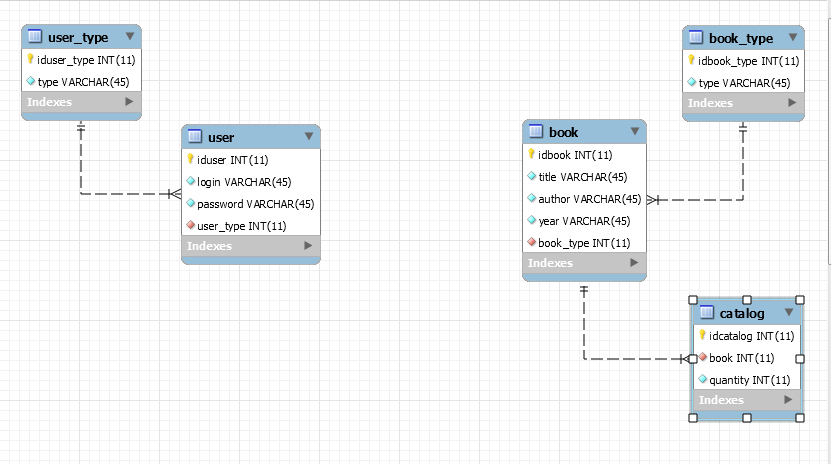
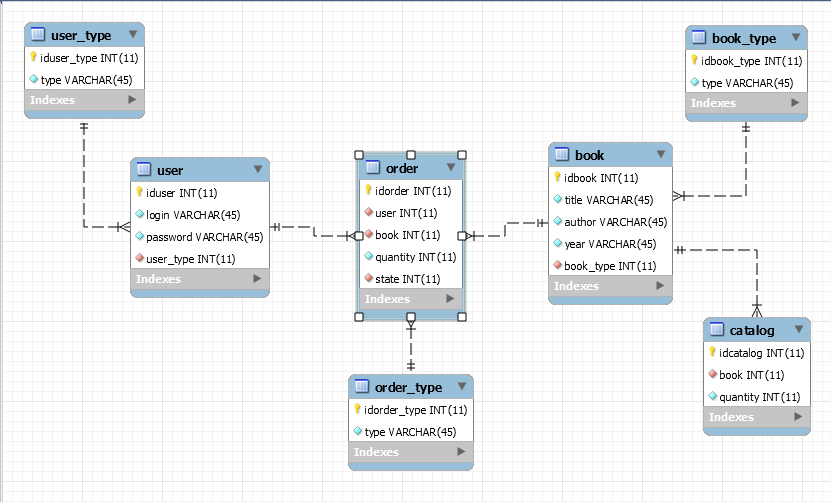
order books added

diff --git a/web/js/validation.js b/web/js/validation.js
@@ -28,3 +28,4 @@ function validateRegisterForm() {
         return false;
     }
 }
+

diff --git a/src/by/bsu/guglya/library/database/dao/OrderDAO.java b/src/by/bsu/guglya/library/database/dao/OrderDAO.java
@@ -1,0 +1,54 @@
+package by.bsu.guglya.library.database.dao;
+
+import by.bsu.guglya.library.beans.Order;
+import org.apache.log4j.Logger;
+
+import java.sql.PreparedStatement;
+import java.sql.ResultSet;
+import java.sql.SQLException;
+
+public class OrderDAO extends AbstractDAO{
+    private static final Logger LOG = Logger.getLogger(OrderDAO.class);
+    public static final String GET_IDORDER_TYPE = "select idorder_type from library.order_type where type=?;";
+    public static final String INSERT_ORDER = "insert into library.order (user, book, quantity, state) values (?,?,?,?);";
+
+    public boolean addOrder(String idBook, int idUser){
+        boolean result = false;
+        PreparedStatement idTypePS = null;
+        PreparedStatement insertOrderPS = null;
+        try{
+            conn.setAutoCommit(false);
+            idTypePS = conn.prepareStatement(GET_IDORDER_TYPE);
+            idTypePS.setString(1, Order.TypeOfOrder.IN_PROCESSING.toString());
+            insertOrderPS = conn.prepareStatement(INSERT_ORDER);
+            try{
+                ResultSet resultSet = idTypePS.executeQuery();
+                resultSet.next();
+                int idOrderTypeProc = resultSet.getInt("idorder_type");
+                insertOrderPS.setInt(1, idUser);
+                insertOrderPS.setString(2, idBook);
+                int qty = 1;
+                insertOrderPS.setInt(3, qty);
+                insertOrderPS.setInt(4, idOrderTypeProc);
+                insertOrderPS.executeUpdate();
+                conn.commit();
+                result = true;
+            } catch (SQLException ex) {
+                conn.rollback();
+                LOG.error(ex.getMessage());
+            } finally {
+                if (insertOrderPS != null) {
+                    insertOrderPS.close();
+                }
+                if (idTypePS != null) {
+                    idTypePS.close();
+                }
+            }
+        } catch (SQLException ex) {
+            LOG.error(ex.getMessage());
+        } finally {
+            closeConnection();
+        }
+        return result;
+    }
+}

diff --git a/src/by/bsu/guglya/library/commands/OrderBooksCommand.java b/src/by/bsu/guglya/library/commands/OrderBooksCommand.java
@@ -1,0 +1,35 @@
+package by.bsu.guglya.library.commands;
+
+import by.bsu.guglya.library.beans.User;
+import by.bsu.guglya.library.logic.OrderLogic;
+import by.bsu.guglya.library.managers.ConfigurationManager;
+import by.bsu.guglya.library.managers.MessageManager;
+
+import javax.servlet.http.HttpServletRequest;
+import javax.servlet.http.HttpSession;
+
+public class OrderBooksCommand implements Command {
+    private final static String USER_ATTR = "user";
+    private final static String LOCALE_PARAM = "locale";
+    private final static String SUCCESS_ORDER_MESSAGE_ATTR = "successOrderMessage";
+    @Override
+    public String execute(HttpServletRequest request) {
+        if (request.getParameter("selectedItems") != null) {
+            String selectedItems = request.getParameter("selectedItems");
+            String[] selectedItemsArray = selectedItems.split(",");
+            HttpSession session = request.getSession(true);
+            String locale = (String)session.getAttribute(LOCALE_PARAM);
+            MessageManager messageManager = new MessageManager(locale);
+            User user = (User)session.getAttribute(USER_ATTR);
+            int idUser = user.getIdUser();
+            for(String idBook : selectedItemsArray){
+                if(OrderLogic.addOrder(idBook, idUser)){
+                    String message = messageManager.getProperty(MessageManager.ORDER_SUCCESS_MESSAGE);
+                    request.setAttribute(SUCCESS_ORDER_MESSAGE_ATTR, message);
+                }
+            }
+        }
+        String page = new CatalogCommand().execute(request);
+        return page;
+    }
+}

diff --git a/src/by/bsu/guglya/library/beans/Order.java b/src/by/bsu/guglya/library/beans/Order.java
@@ -1,0 +1,52 @@
+package by.bsu.guglya.library.beans;
+
+public class Order {
+
+    public enum TypeOfOrder{
+        IN_PROCESSING, APPROVED
+    }
+
+    private int idUser;
+    private int idBook;
+    private int quantity;
+    private TypeOfOrder type;
+
+    public Order(int idUser, int idBook, int quantity, TypeOfOrder type) {
+        this.idUser = idUser;
+        this.idBook = idBook;
+        this.quantity = quantity;
+        this.type = type;
+    }
+
+    public int getIdUser() {
+        return idUser;
+    }
+
+    public void setIdUser(int idUser) {
+        this.idUser = idUser;
+    }
+
+    public int getIdBook() {
+        return idBook;
+    }
+
+    public void setIdBook(int idBook) {
+        this.idBook = idBook;
+    }
+
+    public int getQuantity() {
+        return quantity;
+    }
+
+    public void setQuantity(int quantity) {
+        this.quantity = quantity;
+    }
+
+    public TypeOfOrder getType() {
+        return type;
+    }
+
+    public void setType(TypeOfOrder type) {
+        this.type = type;
+    }
+}

diff --git a/src/by/bsu/guglya/library/beans/Book.java b/src/by/bsu/guglya/library/beans/Book.java
@@ -10,17 +10,18 @@ public class Book {
         LIBRARY_CARD, READING_ROOM
     }
 
+    //private  int idBook;
     private String title;
     private String author;
     private int year;
     private TypeOfBook type;
 
     public Book(String title, String author, int year, TypeOfBook type) {
-        this.title = title;
-        this.author = author;
-        this.year = year;
-        this.type = type;
-    }
+    this.title = title;
+    this.author = author;
+    this.year = year;
+    this.type = type;
+}
 
     public String getTitle() {
         return title;

diff --git a/src/by/bsu/guglya/library/managers/MessageManager.java b/src/by/bsu/guglya/library/managers/MessageManager.java
@@ -12,6 +12,7 @@ public class MessageManager {
     public static final String EXIST_LOGIN_MESSAGE = "EXIST_LOGIN_MESSAGE";
     public static final String REGISTRATION_SUCCESS_MESSAGE = "REGISTRATION_SUCCESS_MESSAGE";
     public static final String REGISTRATION_ERROR_MESSAGE = "REGISTRATION_ERROR_MESSAGE";
+    public static final String ORDER_SUCCESS_MESSAGE = "ORDER_SUCCESS_MESSAGE";
 
     public MessageManager(String locale) {
         String language = locale.substring(0, 2);

diff --git a/src/by/bsu/guglya/library/commands/CommandFactory.java b/src/by/bsu/guglya/library/commands/CommandFactory.java
@@ -20,7 +20,7 @@ public class CommandFactory {
         commands.put("go_to_about_us_page", new GoToAboutUsPageCommand());
         commands.put("go_to_catalog_page", new CatalogCommand());
         commands.put("registration", new RegistrationCommand());
-        commands.put("add_books", new AddBooksCommand());
+        commands.put("order_books", new OrderBooksCommand());
     }
 
     public Command getCommand(HttpServletRequest request) {

diff --git a/src/by/bsu/guglya/library/logic/OrderLogic.java b/src/by/bsu/guglya/library/logic/OrderLogic.java
@@ -1,0 +1,13 @@
+package by.bsu.guglya.library.logic;
+
+import by.bsu.guglya.library.database.dao.OrderDAO;
+
+public class OrderLogic {
+
+    public static boolean addOrder(String idBook, int idUser)
+    {
+        OrderDAO orderDAO = new OrderDAO();
+        boolean result = orderDAO.addOrder(idBook, idUser);
+        return result;
+    }
+}
